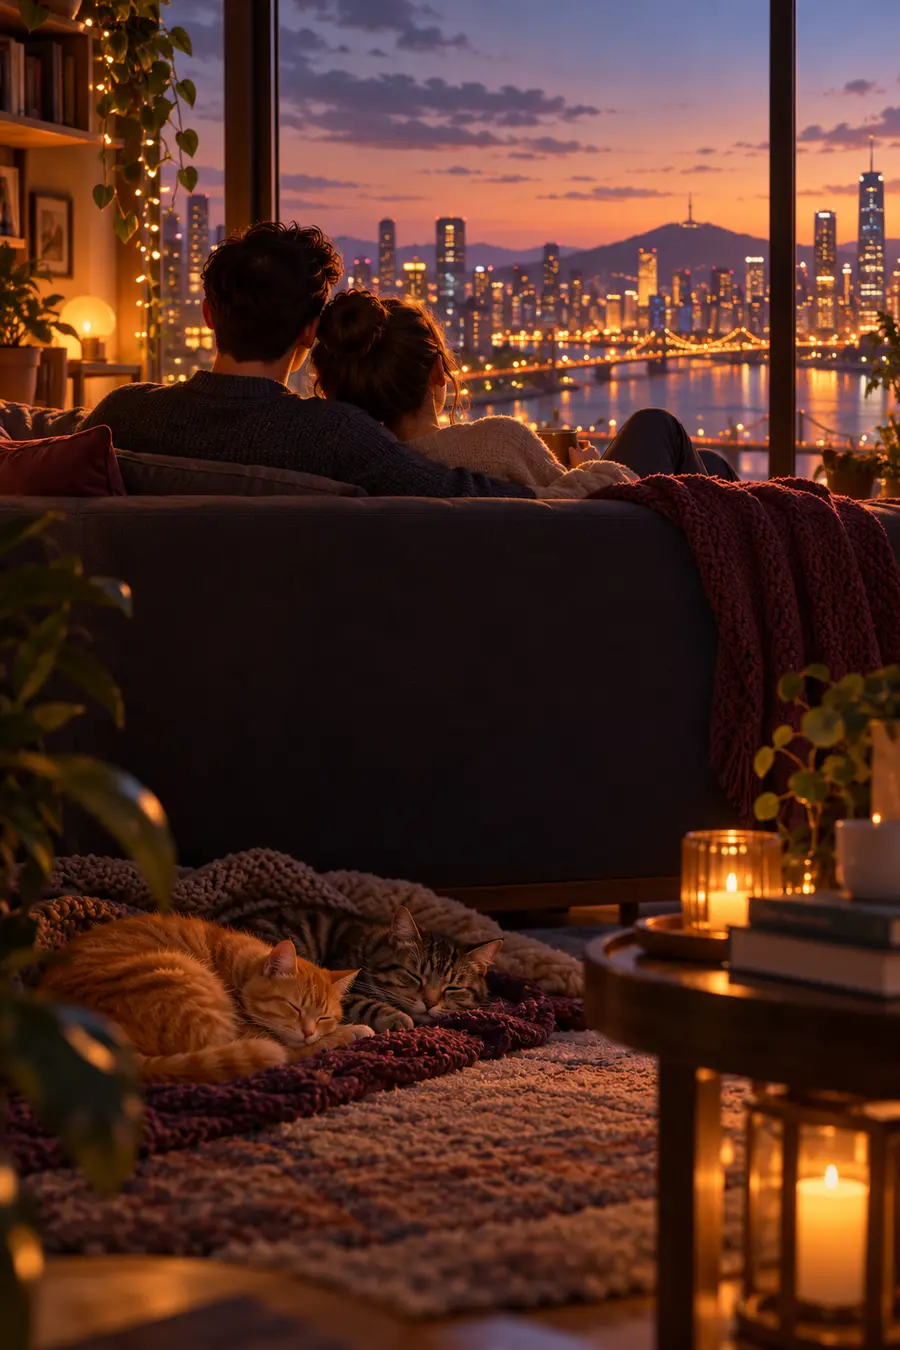
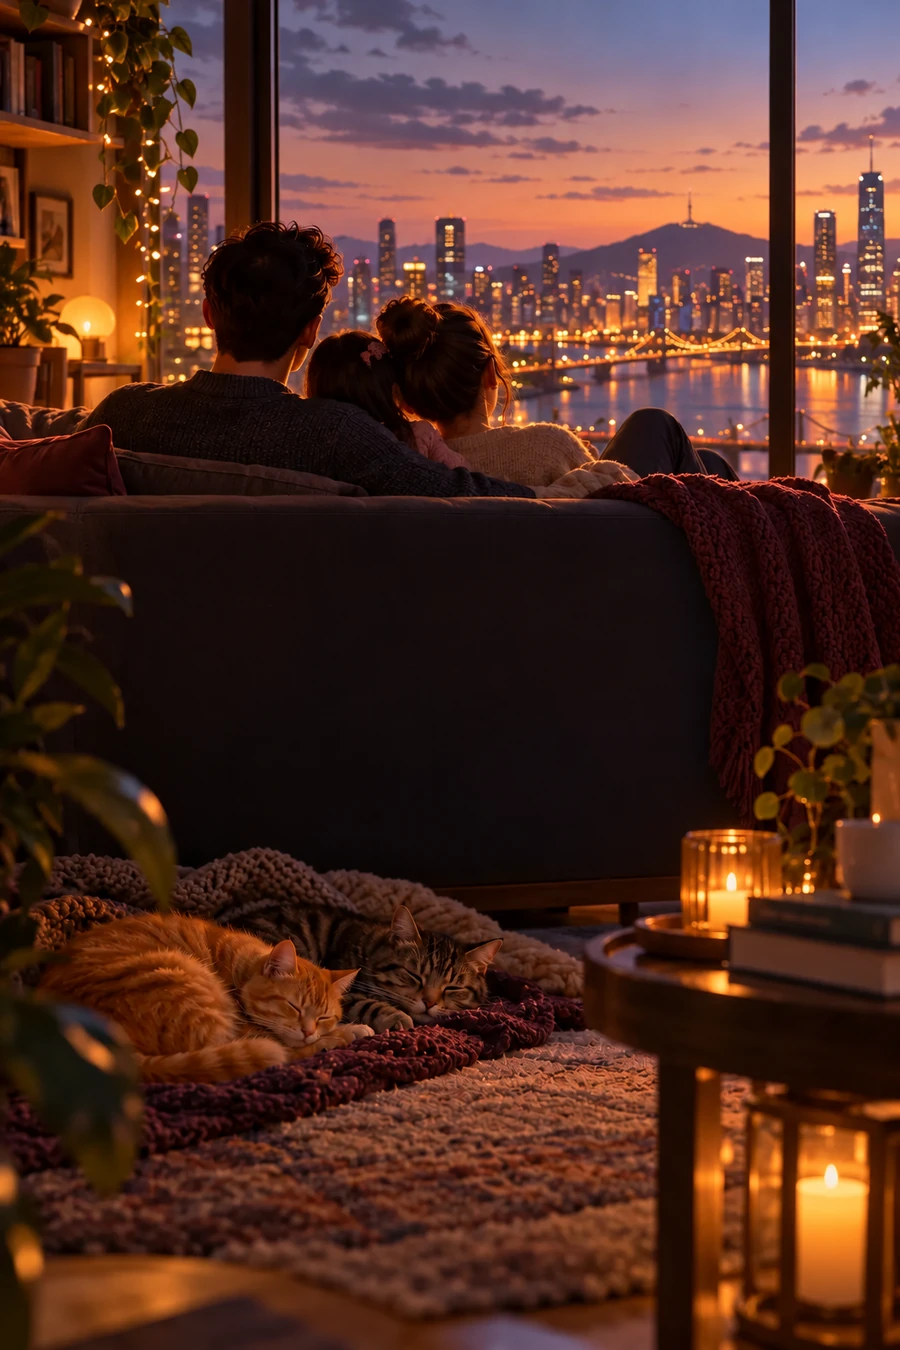
Add Nika to family scene and in-app PWA refresh

diff --git a/v4/app-sync.js b/v4/app-sync.js
@@ -163,6 +163,62 @@ if (globalThis.navigator?.serviceWorker && globalThis.isSecureContext) {
   navigator.serviceWorker.register('./sw.js', { updateViaCache: 'none' }).catch(() => {});
 }
 
+// Reload the installed PWA in place. Never unregister its worker or erase storage.
+document.addEventListener('click', async event => {
+  const button = event.target.closest('[data-app-update]');
+  if (!button) return;
+  event.preventDefault();
+  event.stopImmediatePropagation();
+  if (button.disabled) return;
+  if (sync.dirty || sync.busy || sync.paused || localStorage.getItem(SYNC_DIRTY) === '1') {
+    notify(lang()==='uk'?'Спочатку дочекайся синхронізації змін.':'Сначала дождись синхронизации изменений.');
+    return;
+  }
+  button.disabled = true;
+  button.setAttribute('aria-busy', 'true');
+  const label = button.querySelector('b');
+  const oldText = button.textContent;
+  if (label) label.textContent = lang()==='uk'?'Перевіряю версію…':'Проверяю версию…';
+  else button.textContent = lang()==='uk'?'Перевіряю версію…':'Проверяю версию…';
+  try {
+    const url = new URL('./index.html', location.href);
+    url.searchParams.set('vnn_check', String(Date.now()));
+    const response = await fetch(url, {cache:'no-store', credentials:'same-origin'});
+    if (!response.ok) throw new Error('offline');
+    const html = await response.text();
+    const build = html.match(/app\.js\?v=([^"'&]+)/)?.[1];
+    if (!build || build === '__BUILD_ID__') throw new Error('release');
+    if ('serviceWorker' in navigator) {
+      const registration = await navigator.serviceWorker.getRegistration('./');
+      if (registration) {
+        await registration.update();
+        const installing = registration.installing;
+        if (installing && installing.state !== 'activated') {
+          await Promise.race([
+            new Promise((resolve, reject) => {
+              installing.addEventListener('statechange', () => {
+                if (installing.state === 'activated') resolve();
+                if (installing.state === 'redundant') reject(new Error('install'));
+              });
+            }),
+            new Promise((_, reject) => setTimeout(() => reject(new Error('timeout')), 15000))
+          ]);
+        }
+      }
+    }
+    const next = new URL('./', location.href);
+    next.searchParams.set('vnn_updated', build);
+    next.searchParams.set('t', String(Date.now()));
+    location.replace(next.href);
+  } catch (error) {
+    button.disabled = false;
+    button.removeAttribute('aria-busy');
+    if (label) label.textContent = lang()==='uk'?'Оновити версію':'Обновить версию';
+    else button.textContent = oldText;
+    notify(lang()==='uk'?'Не вдалося оновити. Перевір інтернет і спробуй ще раз.':'Не удалось обновить. Проверь интернет и попробуй ещё раз.');
+  }
+}, true);
+
 function cachedSessionActor() {
   try {
     const part = sync.token.split('.')[0].replace(/-/g, '+').replace(/_/g, '/');
@@ -650,6 +706,7 @@ function authScreen() {
         <button class="ct-auth-submit" type="submit" ${sync.busy?'disabled':''}>Войти <b>→</b></button>
         ${passkeySupported() ? '<button type="button" class="ct-soft" data-auth-passkey>Войти через Face ID</button>' : ''}
       </form>
+      <button type="button" class="ct-soft ct-auth-update" data-app-update>↻ Обновить версию</button>
       ${sync.error ? `<p class="ct-auth-error">${escape(sync.error)}</p>` : ''}
       <div class="ct-auth-family"><span>Нина</span><i>♥</i><span>Вова</span></div>
       <div class="ct-auth-note">Один бюджет на нашу новую главу ♡</div>

diff --git a/v4/app-contract.js b/v4/app-contract.js
@@ -98,7 +98,7 @@ function contractMore(){const nbTotal=state.nbEntries.reduce((s,x)=>s+(x.currenc
 <section class="ct-card"><h2>Общий бюджет</h2>${globalThis.NinochkaSync?.panel?.()||'<p class="ct-profile-note">Подключение готовится.</p>'}</section>
 <section class="ct-card"><h2>Кто записывает</h2><label class="field"><span>Профиль на этом устройстве</span><select data-setting="actor" ${globalThis.NinochkaSync?.connected?'disabled':''}><option value="nina" ${contractActor()==='nina'?'selected':''}>Нина</option><option value="volodymyr" ${contractActor()==='volodymyr'?'selected':''}>Вова</option></select></label><p class="ct-profile-note">${globalThis.NinochkaSync?.connected?'Имя подтверждено входом. Ваши записи видны обоим.':'Записи помечаются именем. После входа Нина и Вова увидят один общий бюджет.'}</p></section>
 <section class="ct-card"><h2>${tr('appearance')}</h2><div class="ct-theme-grid">${contractThemeButton('light','☀',tr('light'))}${contractThemeButton('auto','♥',tr('auto'))}${contractThemeButton('dark','☾',tr('dark'))}</div></section>
-<section class="ct-menu"><button data-tab="storage"><i>💱</i><span><b>${tr('storageCurrencyShort')}</b><small>${state.storage.currency}</small></span><em>›</em></button><button data-final-action="refresh-storage-rate"><i>↻</i><span><b>${tr('currencyRates')}</b><small>${tr('ratesAuto')}</small></span><em>›</em></button><label><i>🌐</i><span><b>${tr('language')}</b></span><select data-setting="language"><option value="ru" ${lang()==='ru'?'selected':''}>Русский</option><option value="uk" ${lang()==='uk'?'selected':''}>Українська</option></select></label><button data-action="tutorial"><i>ⓘ</i><span><b>${tr('tutorial')}</b></span><em>›</em></button></section>
+<section class="ct-menu"><button data-tab="storage"><i>💱</i><span><b>${tr('storageCurrencyShort')}</b><small>${state.storage.currency}</small></span><em>›</em></button><button data-final-action="refresh-storage-rate"><i>↻</i><span><b>${tr('currencyRates')}</b><small>${tr('ratesAuto')}</small></span><em>›</em></button><label><i>🌐</i><span><b>${tr('language')}</b></span><select data-setting="language"><option value="ru" ${lang()==='ru'?'selected':''}>Русский</option><option value="uk" ${lang()==='uk'?'selected':''}>Українська</option></select></label><button type="button" data-app-update><i>↻</i><span><b>${lang()==='uk'?'Оновити версію':'Обновить версию'}</b><small>${lang()==='uk'?'Значок і дані залишаться':'Значок и данные сохранятся'}</small></span><em>›</em></button><button data-action="tutorial"><i>ⓘ</i><span><b>${tr('tutorial')}</b></span><em>›</em></button></section>
 <section class="ct-card ct-nb"><div><small>${tr('nb')}</small><strong>${fmt(nbTotal)}</strong><p>${tr('nbHint')}</p></div><button class="ct-primary" data-action="nb-add">＋ ${tr('addIncome')}</button></section>
 <section class="ct-card"><h2>${tr('backupTitle')}</h2><div class="ct-backup"><button class="ct-soft" data-action="export">${tr('exportData')}</button><label class="ct-soft">${tr('importData')}<input type="file" id="import-file" accept="application/json,.json" hidden></label></div></section>
 </section>`}

diff --git a/contract.css b/contract.css
@@ -80,6 +80,7 @@ linear-gradient(180deg,rgba(20,12,20,.24),rgba(20,12,20,.48)),var(--approved-dar
 .ct-auth-card{width:min(100%,390px);min-height:min(760px,calc(100svh - 48px));box-sizing:border-box;border-radius:34px;padding:48px 28px 32px;display:flex;flex-direction:column;justify-content:center;background:rgba(24,20,28,.92);border:1px solid rgba(255,255,255,.15);box-shadow:0 28px 80px rgba(0,0,0,.42);color:#fff8f4;backdrop-filter:blur(18px);-webkit-backdrop-filter:blur(18px)}
 .ct-auth-brand{text-align:center;margin-bottom:42px}.ct-auth-title{font-family:Georgia,"Times New Roman",serif;font-size:46px;line-height:1;letter-spacing:-.035em}.ct-auth-title span{color:#bc75ff;font-family:inherit}.ct-auth-subtitle{margin-top:14px;font-size:11px;font-weight:700;letter-spacing:.34em}.ct-auth-motto{margin-top:27px;font-size:11px;letter-spacing:.17em;color:#c9bec8}.ct-auth-motto i{font-style:normal;color:#b975ff;margin:0 8px}
 .ct-auth-form{display:flex;flex-direction:column;gap:13px}.ct-auth-form label{height:58px;display:grid;grid-template-columns:34px 1fr 34px;align-items:center;padding:0 14px;border:1px solid rgba(255,255,255,.13);border-radius:19px;background:rgba(255,255,255,.055)}.ct-auth-form label>span{font-size:22px;color:#d7cbd5}.ct-auth-form input{grid-column:2;border:0!important;outline:0!important;width:100%;min-width:0;background:transparent!important;color:#fff8f4!important;font:inherit;font-size:16px;padding:0!important}.ct-auth-form input::placeholder{color:#918792}.ct-auth-eye{grid-column:3;border:0;background:transparent;color:#d7cbd5;font-size:19px;padding:8px}
+.ct-auth-update{width:100%;margin-top:14px;min-height:44px}
 .ct-auth-submit{height:58px;margin-top:9px;border:0;border-radius:19px;background:linear-gradient(100deg,#7651d9,#c067ed);box-shadow:0 10px 28px rgba(157,84,225,.3);color:white;font-size:17px;font-weight:800;position:relative}.ct-auth-submit b{position:absolute;right:20px;font-size:25px;font-weight:400;top:14px}.ct-auth-submit:disabled{opacity:.65}
 .ct-auth-error{margin:12px 4px 0;text-align:center;color:#ff9aab;font-size:13px}.ct-auth-family{display:flex;justify-content:center;align-items:center;gap:18px;margin-top:32px;color:#e9dfe7;font-weight:700}.ct-auth-family i{font-style:normal;color:#bd77ef}.ct-auth-note{text-align:center;margin-top:auto;padding-top:42px;font-family:Georgia,"Times New Roman",serif;font-style:italic;color:#d8c9d4;font-size:15px}
 :root[data-theme="light"] .ct-auth-shell{background:linear-gradient(180deg,rgba(255,247,240,.22),rgba(111,71,66,.18)),var(--approved-light-home),linear-gradient(135deg,#ead3c9,#b98982);background-size:cover;background-position:center}

diff --git a/sw.js b/sw.js
@@ -5,6 +5,7 @@ const SHELL = ['./', './index.html', './app.js?v=__BUILD_ID__',
   './core.js', './corefix.js', './manifest.webmanifest',
   './assets/vnn-icon.svg', './assets/vnn-icon-180.png',
   './assets/vnn-icon-192.png', './assets/vnn-icon-512.png',
+  './assets/scene/home.webp',
   './assets/final-dark-hero.b64', './assets/final-light-home.b64',
   './assets/storage-approved.b64', './assets/week-empty-approved.b64'];
 self.addEventListener('install', event => {
